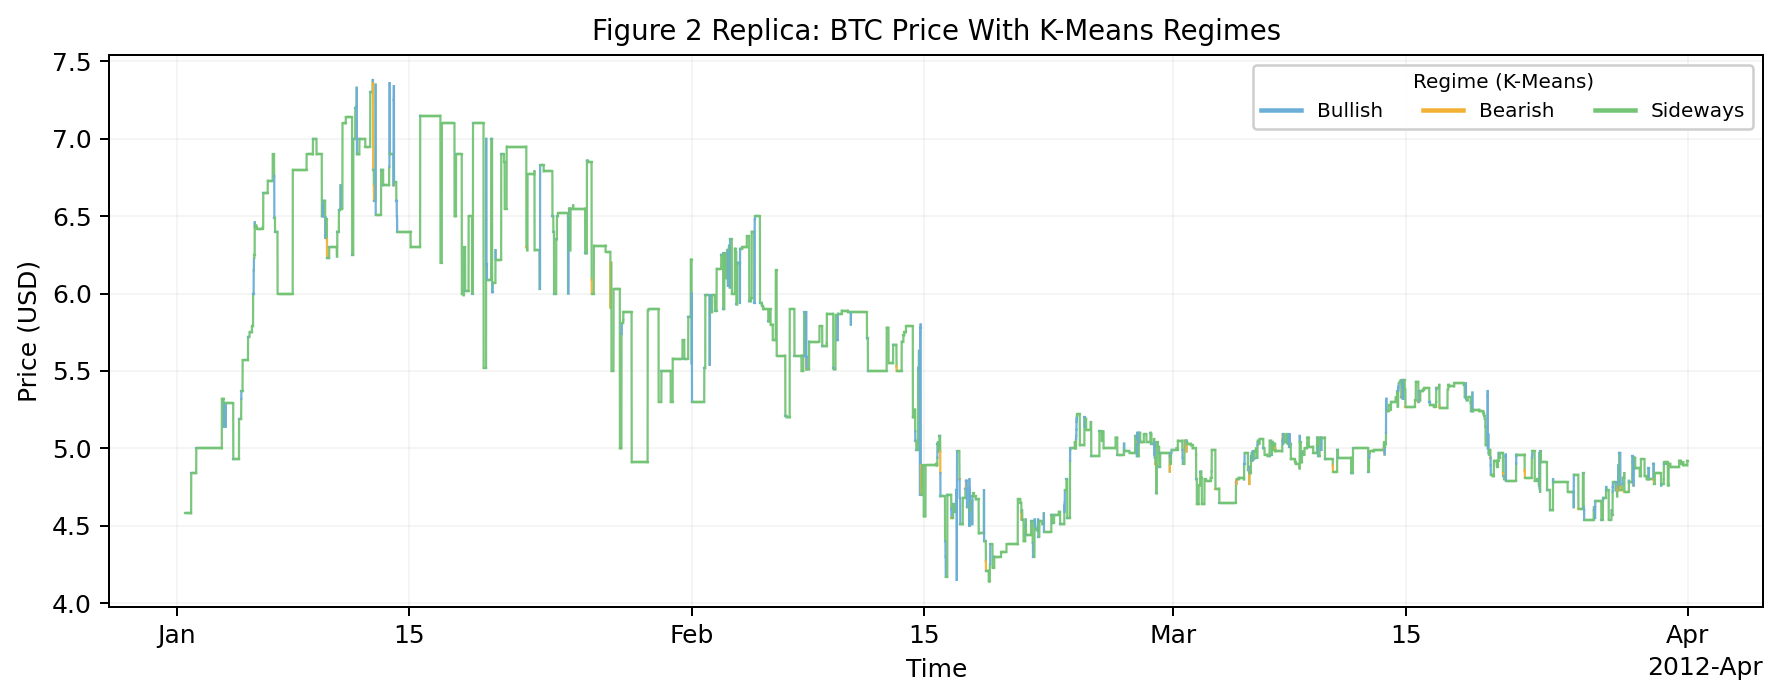
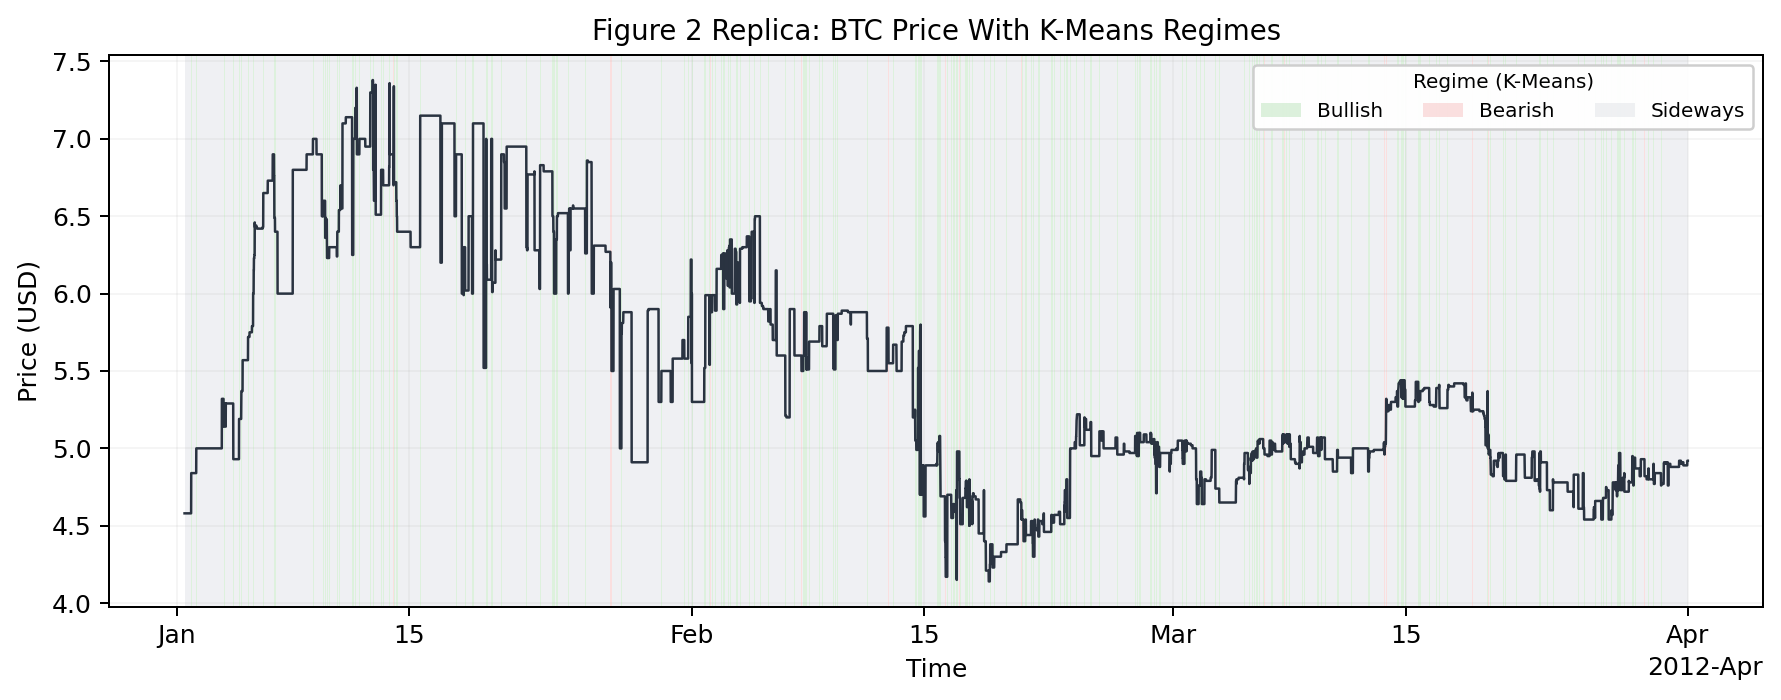
Update regime plot background styling

Changed region(s): [[0.0926, 0.06, 0.9573, 0.87], [0.8029, 0.15, 0.8338, 0.18]]

diff --git a/src/btc_regime_repro/plots.py b/src/btc_regime_repro/plots.py
@@ -7,14 +7,16 @@ matplotlib.use("Agg")
 import matplotlib.dates as mdates
 import matplotlib.pyplot as plt
 from matplotlib.lines import Line2D
+from matplotlib.patches import Patch
 import pandas as pd
 
 
 REGIME_COLORS = {
-    "bullish": "#6baed6",
-    "bearish": "#f2b134",
-    "sideways": "#74c476",
+    "bullish": "#9ed89e",
+    "bearish": "#f3a6a6",
+    "sideways": "#e5e7eb",
 }
+PRICE_LINE_COLOR = "#1f2937"
 
 
 def _utc_timestamp(value: object) -> pd.Timestamp:
@@ -24,11 +26,11 @@ def _utc_timestamp(value: object) -> pd.Timestamp:
     return ts.tz_convert("UTC")
 
 
-def _line_legend_items() -> list[Line2D]:
+def _background_legend_items() -> list[Patch]:
     return [
-        Line2D([0], [0], color=REGIME_COLORS["bullish"], lw=1.8, label="Bullish"),
-        Line2D([0], [0], color=REGIME_COLORS["bearish"], lw=1.8, label="Bearish"),
-        Line2D([0], [0], color=REGIME_COLORS["sideways"], lw=1.8, label="Sideways"),
+        Patch(facecolor=REGIME_COLORS["bullish"], edgecolor="none", alpha=0.35, label="Bullish"),
+        Patch(facecolor=REGIME_COLORS["bearish"], edgecolor="none", alpha=0.35, label="Bearish"),
+        Patch(facecolor=REGIME_COLORS["sideways"], edgecolor="none", alpha=0.6, label="Sideways"),
     ]
 
 
@@ -42,19 +44,30 @@ def _downsample_for_plot(frame: pd.DataFrame, max_points: int = 50000) -> pd.Dat
     return sampled[~sampled.index.duplicated(keep="last")]
 
 
-def _plot_regime_segments(ax: plt.Axes, frame: pd.DataFrame, max_points: int) -> None:
-    frame = _downsample_for_plot(frame, max_points=max_points)
-    segments = frame.loc[:, ["close", "regime"]].copy()
-    segments["next_close"] = segments["close"].shift(-1)
-    segments["next_time"] = segments.index.to_series().shift(-1)
-    segments = segments.dropna(subset=["next_close", "next_time"])
-    for ts, row in segments.iterrows():
-        ax.plot(
-            [ts, row["next_time"]],
-            [float(row["close"]), float(row["next_close"])],
-            color=REGIME_COLORS.get(str(row["regime"]).lower(), "#6b7280"),
-            lw=0.9,
-            alpha=0.95,
+def _plot_price_line(ax: plt.Axes, frame: pd.DataFrame, max_points: int) -> None:
+    sampled = _downsample_for_plot(frame.loc[:, ["close"]], max_points=max_points)
+    ax.plot(sampled.index, sampled["close"], color=PRICE_LINE_COLOR, lw=1.0, alpha=0.95, zorder=3)
+
+
+def _plot_regime_background(ax: plt.Axes, frame: pd.DataFrame) -> None:
+    if frame.empty:
+        return
+    spans = frame.loc[:, ["regime"]].copy()
+    spans["group"] = spans["regime"].astype(str).ne(spans["regime"].astype(str).shift()).cumsum()
+    default_delta = frame.index.to_series().diff().median()
+    if pd.isna(default_delta) or default_delta <= pd.Timedelta(0):
+        default_delta = pd.Timedelta(minutes=5)
+    for _, group in spans.groupby("group"):
+        start = group.index[0]
+        end = group.index[-1] + default_delta
+        regime = str(group["regime"].iloc[0]).lower()
+        ax.axvspan(
+            start,
+            end,
+            facecolor=REGIME_COLORS.get(regime, "#e5e7eb"),
+            alpha=0.35 if regime != "sideways" else 0.6,
+            lw=0,
+            zorder=1,
         )
 
 
@@ -75,12 +88,13 @@ def plot_regimes(
         joined = joined.loc[_utc_timestamp(plot_start_utc) :]
     if plot_end_utc is not None:
         joined = joined.loc[: _utc_timestamp(plot_end_utc)]
-    _plot_regime_segments(ax, joined, max_points=max_points)
+    _plot_regime_background(ax, joined)
+    _plot_price_line(ax, joined, max_points=max_points)
     ax.set_title(title, fontsize=11)
     ax.set_ylabel("Price (USD)")
     ax.set_xlabel("Time")
     ax.grid(alpha=0.16, linewidth=0.6)
-    ax.legend(handles=_line_legend_items(), loc="upper right", ncol=3, framealpha=0.95, title=legend_title, fontsize=8, title_fontsize=8)
+    ax.legend(handles=_background_legend_items(), loc="upper right", ncol=3, framealpha=0.95, title=legend_title, fontsize=8, title_fontsize=8)
 
     span_days = max((joined.index.max() - joined.index.min()).days, 1)
     if span_days > 365 * 2: